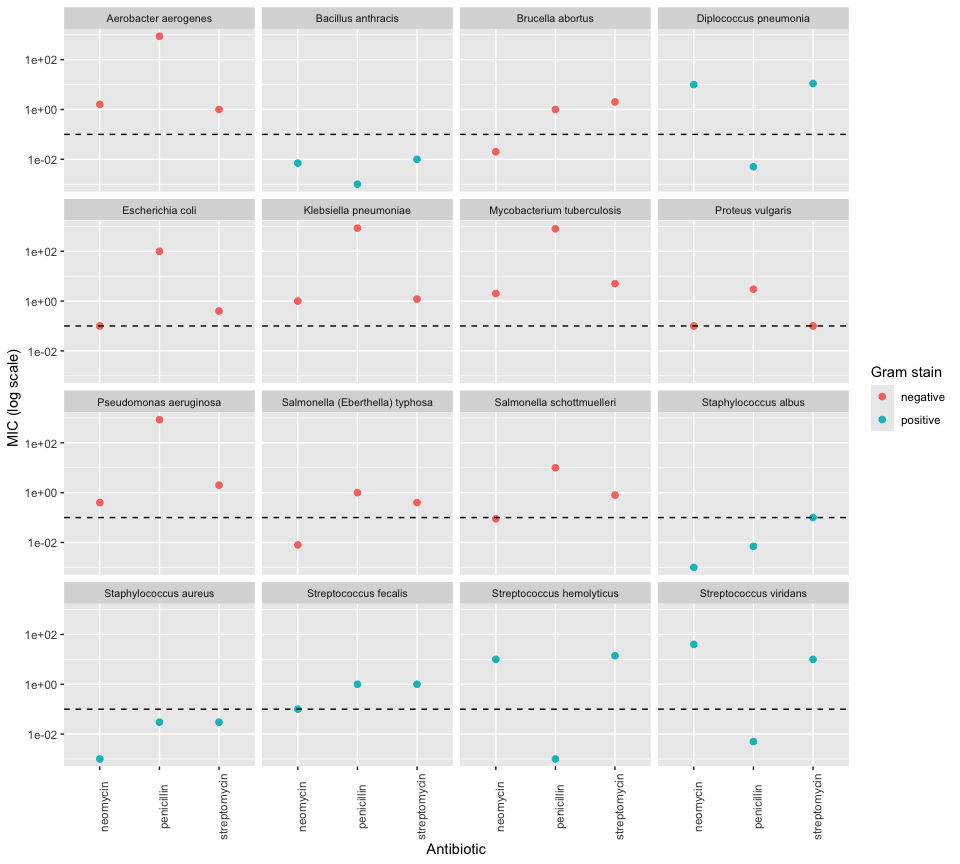
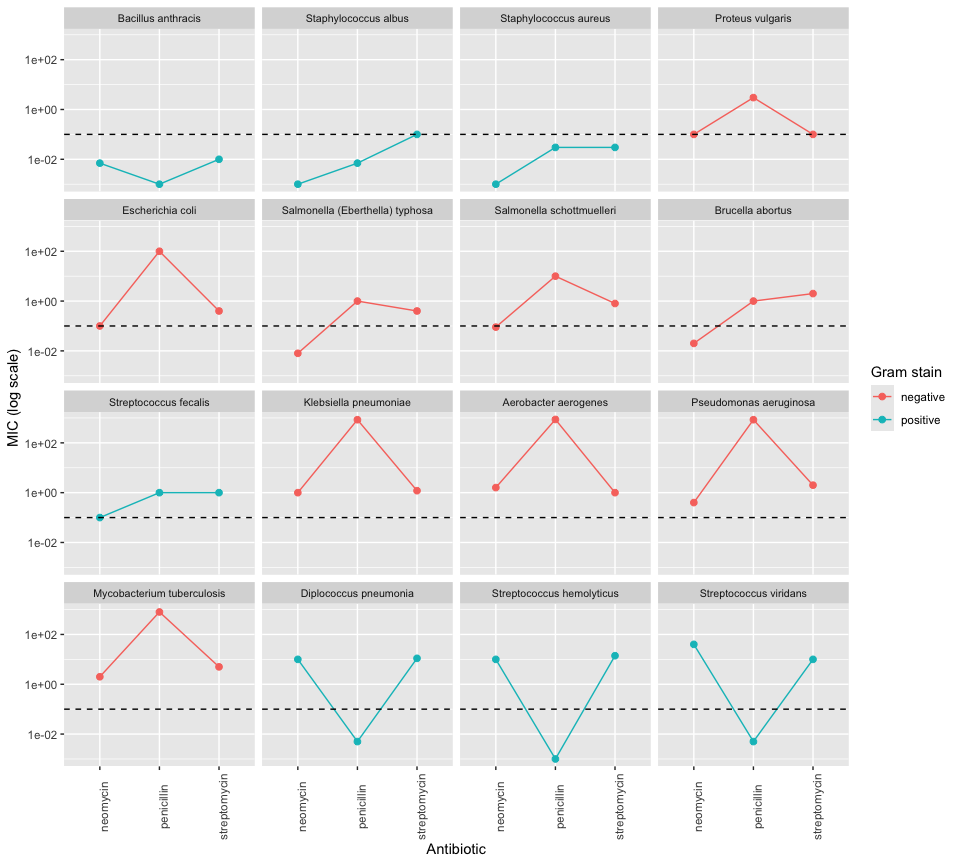
assignment revision

diff --git a/challenges/c05-antibiotics-assignment.md b/challenges/c05-antibiotics-assignment.md
@@ -157,21 +157,24 @@ is Gram positive or negative.
 
 ``` r
 # long format with one row per bacteria and antibiotic
+# bacteria sorted by median mic across the three antibiotics
 df_long <-
   df_antibiotics %>%
   pivot_longer(
     names_to = "antibiotic",
     values_to = "mic",
     cols = c(penicillin, streptomycin, neomycin)
-  )
+  ) %>%
+  mutate(bacteria = fct_reorder(bacteria, mic))
 
 # dashed line marks the 0.1 mic cutoff for treating patients
+# panels stacked vertically so the mic axis is drawn once
 df_long %>%
   ggplot(aes(mic, bacteria, color = gram)) +
   geom_point(size = 2) +
   geom_vline(xintercept = 0.1, linetype = "dashed") +
   scale_x_log10() +
-  facet_wrap(~antibiotic) +
+  facet_grid(rows = vars(antibiotic)) +
   labs(
     x = "MIC (log scale)",
     y = "Bacteria",
@@ -180,6 +183,19 @@ df_long %>%
 ```
 
 ![](c05-antibiotics-assignment_files/figure-gfm/q1.1-1.png)<!-- -->
+
+**Comments for revision**
+
+- I changed `facet_wrap(~antibiotic)` to
+  `facet_grid(rows = vars(antibiotic))` so the three panels are stacked
+  vertically. The MIC axis is now drawn once and each panel gets the
+  full width of the figure instead of a third of it. I added
+  `fig.height = 9` so the 16 bacteria names don’t overlap.
+- I added `mutate(bacteria = fct_reorder(bacteria, mic))` when making
+  `df_long` so the bacteria are sorted by their median MIC across the
+  three antibiotics instead of alphabetically. Bacteria with similar
+  overall resistance are now next to each other. Since Visual 2 uses the
+  same `df_long`, its panels are sorted the same way.
 
 #### Visual 2 (All variables)
 
@@ -194,6 +210,8 @@ your other visuals.
 ``` r
 df_long %>%
   ggplot(aes(antibiotic, mic, color = gram)) +
+  # line connects the three points so each panel shows one pattern
+  geom_line(aes(group = bacteria)) +
   geom_point(size = 2) +
   geom_hline(yintercept = 0.1, linetype = "dashed") +
   scale_y_log10() +
@@ -210,6 +228,16 @@ df_long %>%
 ```
 
 ![](c05-antibiotics-assignment_files/figure-gfm/q1.2-1.png)<!-- -->
+
+**Comments for revision**
+
+- I added `geom_line(aes(group = bacteria))` to connect the three points
+  in each panel. The shape of the line shows each bacterium’s resistance
+  pattern, which is easier to compare across panels than three loose
+  points. Because the bacteria are now sorted by median MIC, panels with
+  similar patterns end up near each other. For example the three V
+  shapes for Diplococcus pneumoniae, Streptococcus hemolyticus and
+  Streptococcus viridans are the last three panels.
 
 #### Visual 3 (Some variables)
 
@@ -372,15 +400,29 @@ opportunity to think about why this is.**
   - Visual 1
 - Why?
   - Visual 1 gives each antibiotic its own panel with the 0.1 cutoff
-    marked. Every bacterium is listed by name on the same vertical axis
-    and each point is colored by Gram stain. Reading down a panel shows
-    which bacteria a drug works on and the colors show how that lines up
-    with Gram stain. MIC is shown by position along a common log scale,
-    which is the easiest kind of comparison to read accurately. The
-    bacteria are in alphabetical order. This puts bacteria from the same
-    genus next to each other and makes genus patterns easy to spot.
-    Visual 3 shows the Gram stain split more compactly but it hides the
-    individual bacteria. It can’t show anything about genera.
+    marked. Every bacterium is listed by name in the same order in each
+    panel and each point is colored by Gram stain. Reading down a panel
+    shows which bacteria a drug works on and the colors show how that
+    lines up with Gram stain. MIC is shown by position along a common
+    log scale, which is the easiest kind of comparison to read
+    accurately. The three panels are stacked so they share one MIC axis
+    and each gets the full width of the figure. The panels go from
+    neomycin at the top to streptomycin at the bottom. That order also
+    goes from the antibiotic that reaches the cutoff for the most
+    bacteria (9) to the one that reaches it for the fewest (4). The
+    bacteria are sorted by their median MIC across the three antibiotics
+    instead of alphabetically. This puts the three bacteria that all
+    three antibiotics work on at the bottom and the three that only
+    penicillin works on at the top. All nine Gram negative bacteria are
+    in between. Visual 3 shows the Gram stain split more compactly but
+    it hides the individual bacteria. It can’t show anything about
+    genera.
+
+**Comments for revision**
+
+- I changed the explanation above because it described the alphabetical
+  order as a strength. It now describes the median MIC sorting, the
+  stacked panels and the panel order.
 
 #### Guiding Question 2
 
@@ -394,20 +436,34 @@ and in 1984 *Streptococcus fecalis* was renamed *Enterococcus fecalis*
 *Observations*
 
 - What is your response to the question above?
-  - Diplococcus pneumoniae responds to these antibiotics almost the same
-    way as Streptococcus hemolyticus and Streptococcus viridans. In
+  - Diplococcus pneumoniae responds to these antibiotics in a similar
+    way to Streptococcus hemolyticus and Streptococcus viridans. In
     Visual 5, those three are the only bacteria in the upper left
     corner. They all have very low penicillin MICs and high neomycin
     MICs. The data table shows penicillin MICs of 0.005 or less and
     neomycin MICs of 10 or more for all three. Visual 5 leaves out
-    streptomycin but the data table shows it matches too, at 11 for
-    Diplococcus pneumoniae and 14 and 10 for the two Streptococcus. The
-    data table also shows all three are Gram positive.
+    streptomycin but the data table shows streptomycin is similar too,
+    at 11 for Diplococcus pneumoniae and 14 and 10 for the two
+    Streptococcus. The data table also shows all three are Gram
+    positive.
   - The background says bacteria are grouped into a genus based on
     several features, including their resistance to antibiotics.
-    Diplococcus pneumoniae has the same resistance pattern as these two
-    Streptococcus. This suggests it is closely related to them and fits
-    with it being renamed into the Streptococcus genus.
+    Diplococcus pneumoniae has a similar resistance pattern to these two
+    Streptococcus. The values are not identical. In the data table each
+    of its three MICs is within a factor of 5 of the matching value for
+    both Streptococcus. The biggest gaps are penicillin at 0.005 versus
+    0.001 for Streptococcus hemolyticus and neomycin at 10 versus 40 for
+    Streptococcus viridans. MIC is the lowest concentration of an
+    antibiotic that stops a bacterium from growing. Antibiotics work by
+    attacking parts of the bacterial cell. That means an MIC says
+    something about how the bacterium is built. This dataset shows that
+    for penicillin. The Gram stain sorts bacteria by their type of cell
+    wall and in Visual 1 penicillin works on 6 of the 7 Gram positive
+    bacteria and none of the 9 Gram negative ones. If similar MICs point
+    to similar cell structure, then Diplococcus pneumoniae being close
+    to the two Streptococcus on all three antibiotics suggests it is
+    built like them. This would be a stronger reason for moving it into
+    the Streptococcus genus than the numbers alone.
   - Streptococcus fecalis supports this from the other direction. In
     Visual 5, it is far from the other two Streptococcus. The data table
     shows it has a penicillin MIC of 1 and a neomycin MIC of 0.1. It was
@@ -437,11 +493,26 @@ and in 1984 *Streptococcus fecalis* was renamed *Enterococcus fecalis*
     also shows how far Streptococcus fecalis is from them. Visual 1 also
     contains these values but comparing whole profiles there means
     matching each bacterium’s three points across separate panels.
-    Guiding Question 1 compares the antibiotics across groups of
+    Visual 2 now puts the three V shapes for Diplococcus pneumoniae and
+    the two Streptococcus next to each other. Comparing them with
+    Streptococcus fecalis there still means looking across separate
+    panels. Guiding Question 1 compares the antibiotics across groups of
     bacteria and a visual organized by antibiotic works best for that.
     Guiding Question 2 compares one bacterium’s overall pattern with the
     others and a visual that places similar bacteria next to each other
     works better for that.
+
+**Comments for revision**
+
+- I changed “almost the same way” to “in a similar way” and “matches” to
+  “is similar” in the first bullet. I changed “the same resistance
+  pattern” to “a similar resistance pattern” in the second bullet
+  because the three MICs are close but not identical. I also added why
+  similar MICs matter. An MIC depends on how an antibiotic acts on the
+  bacterial cell. Similar MICs across all three antibiotics then suggest
+  a similar cell structure, which is a better reason for the renaming
+  than the numbers alone. I also added two sentences about Visual 2 to
+  the “why” answer since it now shows these patterns as lines.
 
 # References
 
